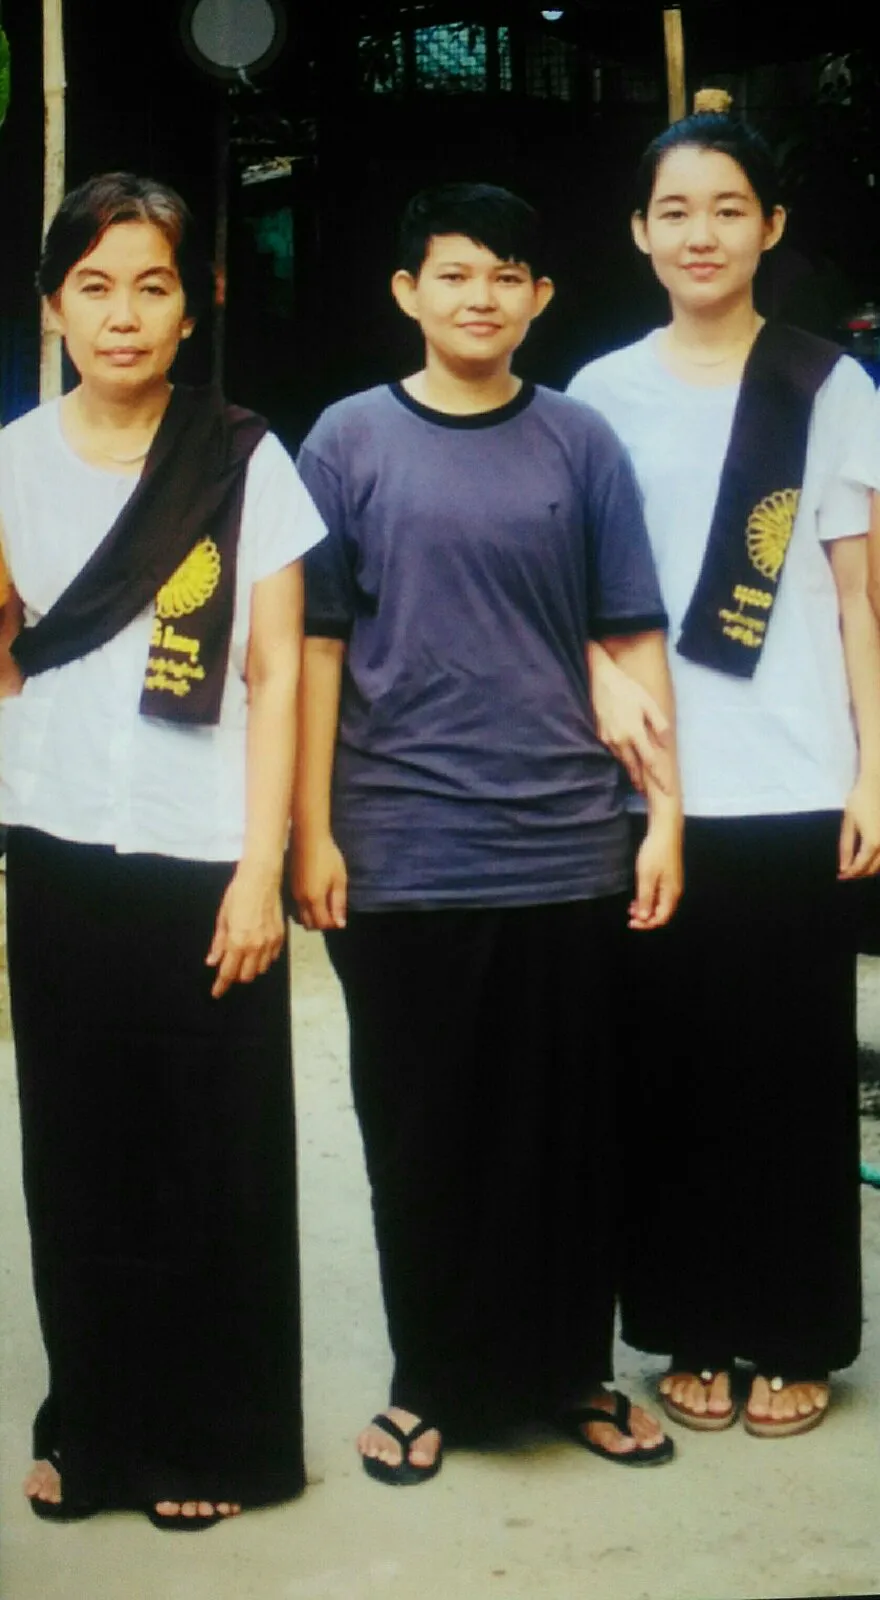
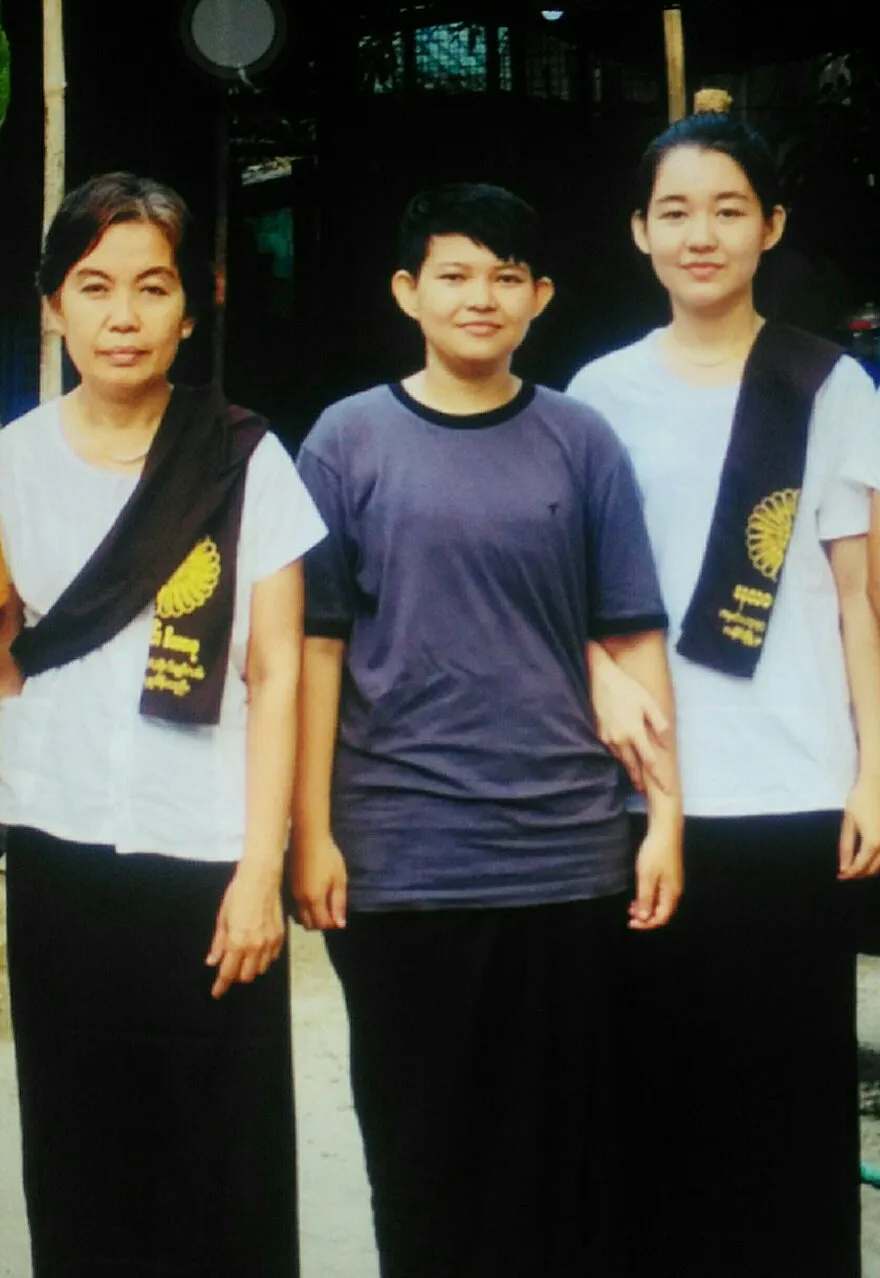
changing img

diff --git a/assets/css/style.css b/assets/css/style.css
@@ -169,8 +169,12 @@ Text align
     object-fit: cover;
 }
 
+.img-div.seventeen img {
+    object-position: top;
+}
+
 .scroller-container {
-    width: 80%;
+    width: 95%;
     margin: 0 auto;
 }
 
@@ -190,7 +194,7 @@ Text align
 
 .scroller[data-animated=true] .scroller_inner {
     width: max-content;
-    animation: scroll var(--animation-direction, forwards) 50s linear infinite;
+    animation: scroll var(--animation-direction, forwards) 100s linear infinite;
 }
 
 .scroller[data-direction="right"] {
@@ -210,7 +214,7 @@ Text align
 
 .scroller[data-animated=true] .scroller_inner.scroll-y {
     height: max-content;
-    animation: scrollingy var(--animation-direction, forwards) 50s linear infinite;
+    animation: scrollingy var(--animation-direction, forwards) 100s linear infinite;
 }
 
 .scroller[data-direction="up"] {

diff --git a/index.html b/index.html
@@ -43,6 +43,7 @@
             <li class="img-div"><img src="./assets/img/family/family14.webp" alt="family img fourteen"></li>
             <li class="img-div"><img src="./assets/img/family/family15.webp" alt="family img fifteen"></li>
             <li class="img-div"><img src="./assets/img/family/family16.webp" alt="family img sixteen"></li>
+            <li class="img-div seventeen"><img src="./assets/img/family/family17.webp" alt="family img seventeen"></li>
         </ul>
     </div>
 
